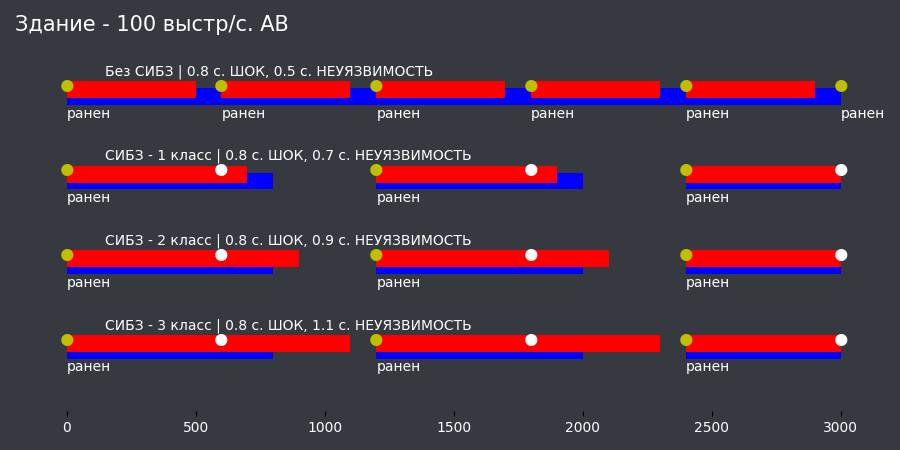
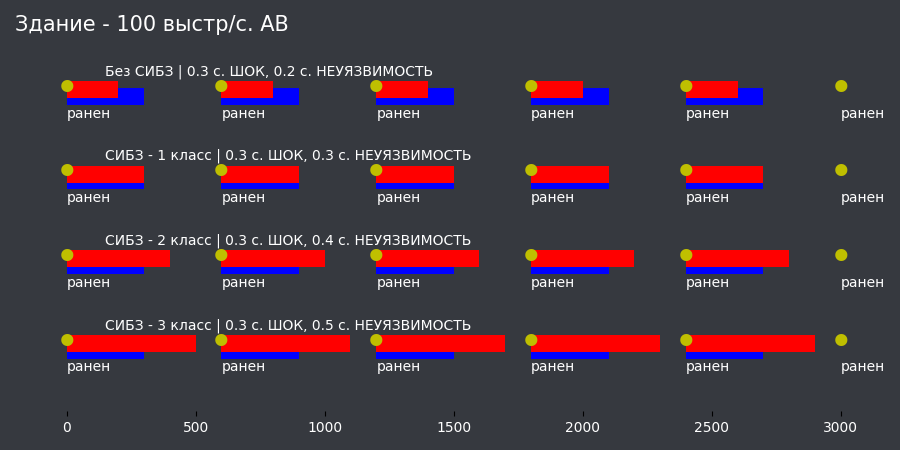
Исправил графики по полигонам

diff --git a/lt_shots_analysis/lt_shots_analysis.py b/lt_shots_analysis/lt_shots_analysis.py
@@ -21,28 +21,52 @@ firerate = 300
 firemode = "ОД"
 # firemode = "АВ"
 
-tth_data = [
-    {
-        "shock": 800,
-        "invulnerability": 500,
-        "title": "Без СИБЗ"
-    },
-    {
-        "shock": 800,
-        "invulnerability": 700,
-        "title": "СИБЗ - 1 класс"
-    },
-    {
-        "shock": 800,
-        "invulnerability": 900,
-        "title": "СИБЗ - 2 класс"
-    },
-    {
-        "shock": 800,
-        "invulnerability": 1100,
-        "title": "СИБЗ - 3 класс"
-    },
-]
+tth_alldata = {
+    "Здание": [
+        {
+            "shock": 300,
+            "invulnerability": 200,
+            "title": "Без СИБЗ"
+        },
+        {
+            "shock": 300,
+            "invulnerability": 300,
+            "title": "СИБЗ - 1 класс"
+        },
+        {
+            "shock": 300,
+            "invulnerability": 400,
+            "title": "СИБЗ - 2 класс"
+        },
+        {
+            "shock": 300,
+            "invulnerability": 500,
+            "title": "СИБЗ - 3 класс"
+        }
+    ],
+    "Лес": [
+        {
+            "shock": 800,
+            "invulnerability": 500,
+            "title": "Без СИБЗ"
+        },
+        {
+            "shock": 800,
+            "invulnerability": 700,
+            "title": "СИБЗ - 1 класс"
+        },
+        {
+            "shock": 800,
+            "invulnerability": 900,
+            "title": "СИБЗ - 2 класс"
+        },
+        {
+            "shock": 800,
+            "invulnerability": 1100,
+            "title": "СИБЗ - 3 класс"
+        }
+    ]
+}
 
 
 for firerate in [
@@ -62,6 +86,8 @@ for firerate in [
     500
 ]:
     for polygon in ["Здание", "Лес"]:
+        tth_data = tth_alldata[polygon]
+        
         for firemode in ["ОД", "АВ"]:
             
             plot_title = f'{polygon} - {firerate} выстр/с. {firemode}'
